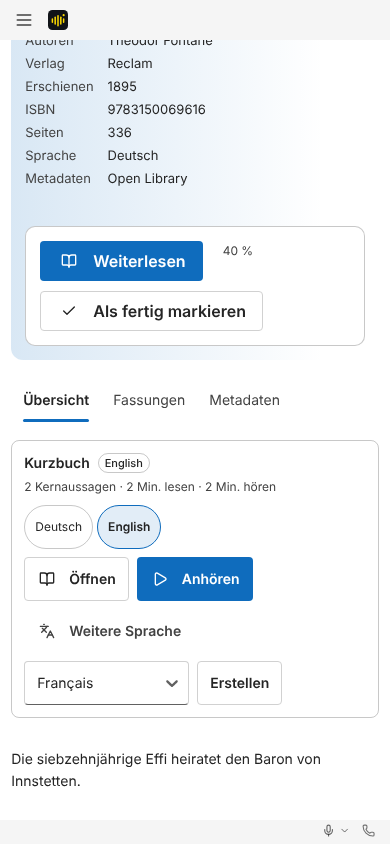
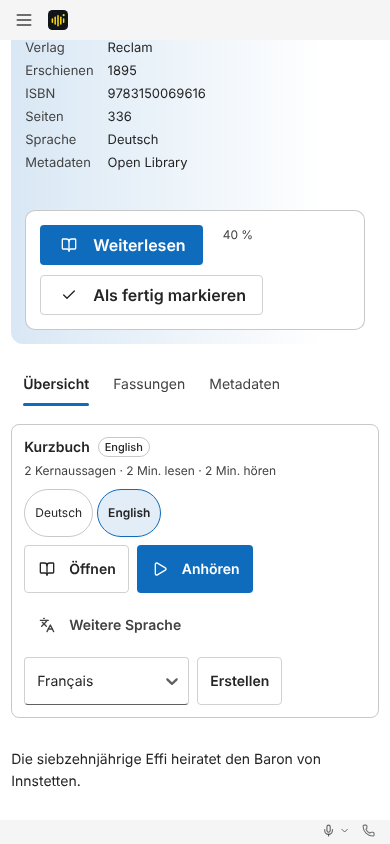
fix(bibliothek): Kurzbuch-Karte mobil 48 px Ziele mit Reserve, Testmeldung nennt Ziel (#217)
Claude-Session: https://claude.ai/code/session_014pekAzNTm3vp5zseqoDKsA

diff --git a/apps/local-voice/src/components/library/library.css b/apps/local-voice/src/components/library/library.css
@@ -939,15 +939,18 @@
 .library-kurzbuch__lang-select {
   min-width: 11rem;
 }
-/* Mobil: alle Bedienziele der Karte mindestens 44 × 44 px (Codex). */
+/* Mobil: alle Bedienziele der Karte mindestens 44 × 44 px (Codex). Mit
+   Reserve gesetzt, damit Rundung bei Windows-Skalierung nicht darunter fällt. */
 @media (max-width: 640px) {
   .library-kurzbuch__chip,
   .library-kurzbuch button {
-    min-height: 44px;
-    min-width: 44px;
+    box-sizing: border-box;
+    min-height: 48px;
+    min-width: 48px;
   }
   .library-kurzbuch .app-select__control {
-    min-height: 44px;
+    box-sizing: border-box;
+    min-height: 48px;
   }
   .library-kurzbuch__lang {
     justify-content: flex-start;

diff --git a/apps/local-voice/tests/library.spec.ts b/apps/local-voice/tests/library.spec.ts
@@ -1785,8 +1785,9 @@ test("die Produktseite zeigt Kurzbücher je Sprache und bietet weitere an", asyn
   expect(targets.length).toBeGreaterThan(5);
   for (const target of targets) {
     const box = await target.boundingBox();
-    expect(box?.height ?? 0).toBeGreaterThanOrEqual(44);
-    expect(box?.width ?? 0).toBeGreaterThanOrEqual(44);
+    const name = await target.evaluate((e) => (e.textContent ?? "").trim().slice(0, 30));
+    expect(box?.height ?? 0, `Höhe von „${name}“`).toBeGreaterThanOrEqual(44);
+    expect(box?.width ?? 0, `Breite von „${name}“`).toBeGreaterThanOrEqual(44);
   }
   await page.screenshot({ path: "docs/vorschau/kurzbuch-sprache/05-bibliothek-390.png" });
 });
